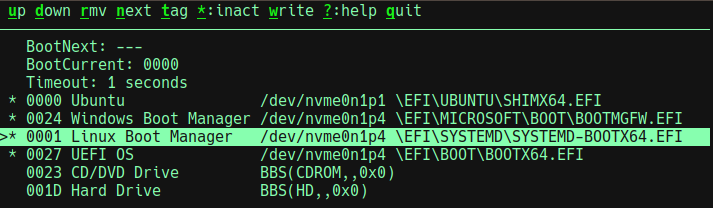
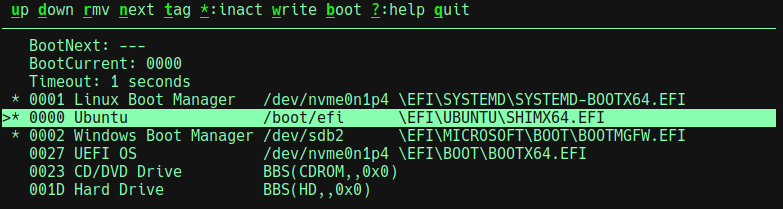
added b:reboot option

diff --git a/src/efibootdude/main.py b/src/efibootdude/main.py
@@ -18,6 +18,7 @@ from types import SimpleNamespace
 import subprocess
 import traceback
 import curses as cs
+import argparse
 # import xml.etree.ElementTree as ET
 from efibootdude.PowerWindow import Window, OptionSpinner
 
@@ -37,7 +38,7 @@ class EfiBootDude:
         spin.add_key('verbose', 'v - toggle verbose', vals=[False, True])
 
         # FIXME: keys
-        other = 'tudrnmw*zqx'
+        other = 'btudrnmw*zqx'
         other_keys = set(ord(x) for x in other)
         other_keys.add(cs.KEY_ENTER)
         other_keys.add(27) # ESCAPE
@@ -89,18 +90,6 @@ class EfiBootDude:
 
     def get_part_uuids(self):
         """ Get all the Partition UUIDS"""
-#       uuids = {}
-#       with open('/run/blkid/blkid.tab', encoding='utf8') as fh:
-#           # sample: <device ... TYPE="vfat"
-#           #   PARTUUID="25d2dea1-9f68-1644-91dd-4836c0b3a30a">/dev/nvme0n1p1</device>
-#           for xml_line in fh:
-#               element = ET.fromstring(xml_line)
-#               if 'PARTUUID' in element.attrib:
-#                   device=element.text.strip()
-#                   name = self.mounts.get(device, device)
-#                   uuids[element.attrib['PARTUUID'].lower()] = name
-#       return uuids
-
         uuids = {}
         partuuid_path = '/dev/disk/by-partuuid/'
 
@@ -111,6 +100,8 @@ class EfiBootDude:
             if os.path.islink(full_path):
                 device_path = os.path.realpath(full_path)
                 uuids[entry] = device_path
+                if device_path in self.mounts:
+                    uuids[entry] = self.mounts[device_path]
         return uuids
 
     @staticmethod
@@ -118,7 +109,6 @@ class EfiBootDude:
         """ Find uuid string in a line """
         # Define the regex pattern for UUID (e.g., 25d2dea1-9f68-1644-91dd-4836c0b3a30a)
         pattern = r'\b[0-9A-F]{8}-[0-9A-F]{4}-[0-9A-F]{4}-[0-9A-F]{4}-[0-9A-F]{12}\b'
-        # Search for the pattern in the line
         mats = re.findall(pattern, line, re.IGNORECASE)
         return mats
 
@@ -127,9 +117,11 @@ class EfiBootDude:
         # Define the command to run
         lines = []
         if self.testfile:
+            # if given a "testfile" (which should be just the
+            # raw output of 'efibootmgr'), then parse it
             with open(self.testfile, 'r', encoding='utf-8') as fh:
                 lines = fh.readlines()
-        else:
+        else: # run efibootmgr
             command = 'efibootmgr'.split()
             result = subprocess.run(command, stdout=subprocess.PIPE, text=True, check=True)
             lines = result.stdout.splitlines()
@@ -230,6 +222,17 @@ class EfiBootDude:
         words = line.split(maxsplit=1)
         return words[0]
 
+    def reboot(self):
+        """ Reboot the machine """
+        Window.stop_curses()
+        os.system('clear; stty sane; (set -x; sudo reboot now)')
+
+        # NOTE: probably will not get here...
+        os.system(r'/bin/echo -e "\n\n===== Press ENTER for menu ====> \c"; read FOO')
+        self.reinit()
+        Window._start_curses()
+        self.win.pick_pos = self.boot_idx
+
     def write(self):
         """ Commit the changes. """
         if not self.mods.dirty:
@@ -271,8 +274,6 @@ class EfiBootDude:
         Window._start_curses()
         self.win.pick_pos = self.boot_idx
 
-
-
     def main_loop(self):
         """ TBD """
 
@@ -296,6 +297,7 @@ class EfiBootDude:
                     '   m - modify - modify the value'
                     '   w - write - write the changes',
                     '   ESC - abandon changes and re-read boot state',
+                    '   b - reboot the machine',
                 ]
                 for line in lines:
                     self.win.put_body(line)
@@ -356,6 +358,7 @@ class EfiBootDude:
                 actions['m'] = 'modify'
             if self.mods.dirty:
                 actions['w'] = 'write'
+            actions['b'] = 'boot'
 
         return actions
 
@@ -395,7 +398,7 @@ class EfiBootDude:
             return value
 
         if key in (ord('q'), ord('x')):
-            
+
             answer = 'y'
             if self.mods.dirty:
                 answer = self.win.answer(
@@ -471,7 +474,7 @@ class EfiBootDude:
         if key == ord('t') and ns.is_boot:
             seed = ns.label
             while True:
-                answer = self.win.answer(prompt='Enter new label or clear to abort',
+                answer = self.win.answer(prompt='Type new label or clear to abort',
                     seed=seed, width=80)
                 seed = answer = answer.strip()
                 if not answer:
@@ -485,7 +488,7 @@ class EfiBootDude:
         if key == 27:  # ESC
             if self.mods.dirty:
                 answer = self.win.answer(
-                    prompt='Enter "y" to clear edits and refresh')
+                    prompt='Type "y" to clear edits and refresh')
                 if answer.strip().lower().startswith('y'):
                     self.reinit()
             else:
@@ -496,13 +499,18 @@ class EfiBootDude:
             self.write()
             return None
 
-        # FIXME: handle more keys 
+        if key == ord('b'):
+            answer = self.win.answer(prompt='Type "reboot" to reboot',
+                    seed='reboot', width=80)
+            if answer.strip().lower().startswith('reboot'):
+                self.reboot()
+
+        # FIXME: handle more keys
         return None
 
 
 def main():
     """ The program """
-    import argparse
     parser = argparse.ArgumentParser()
     parser.add_argument('testfile', nargs='?', default=None)
     opts = parser.parse_args()

diff --git a/README.md b/README.md
@@ -23,19 +23,22 @@ After running `efibootdude` and making some changes, you'll see a screen compara
 ![efibootdude-screenshot](https://github.com/joedefen/efibootdude/blob/main/images/efibootdude-screenshot.png?raw=true).
 
 At this point
-* The current line starts with `>` and is highlighted.
+* The "current" line starts with `>` and is highlighted.
 * The top line shows actions for the current line; type the underscored letter
-  to effect the action.
-* Enter `?` for a more complete explanation of the keys, navigation keys, etc.
+  to effect its action.
+* Type `?` for a more complete explanation of the keys, navigation keys, etc.
   * **ALWAYS** view the help at least once if unfamiliar with this tool,
     it navigation, and/or uncertain of keys not shown on top line.
 * With this current line, we can:
-  * Use `u` or `d` to move it up or down in the boot order.
-  * Use `t` to relabel the boot entry.
-  * Use `r` to remove it.
+  * Type `u` or `d` to move it up or down in the boot order.
+  * Type `t` to relabel the boot entry.
+  * Type `r` to remove the boot entry.
   * And so forth.
-* Use the `ESC` key to abandon any changes and reload the boot information.
+* The entries with `*` on the left are active boot entries; toggle whether
+  active by typing `*` for the corresponding entries.
+* Press `ESC` key to abandon any changes and reload the boot information.
 * When ready to write the changes to the BIOS, enter `w`.
+* When the changes look good, type `b` to reboot, if you wish.
 * When writing the changes, `efibootdude` drops out of menu mode so you can
   verify the underlying commands, error codes, and error messages.
 
